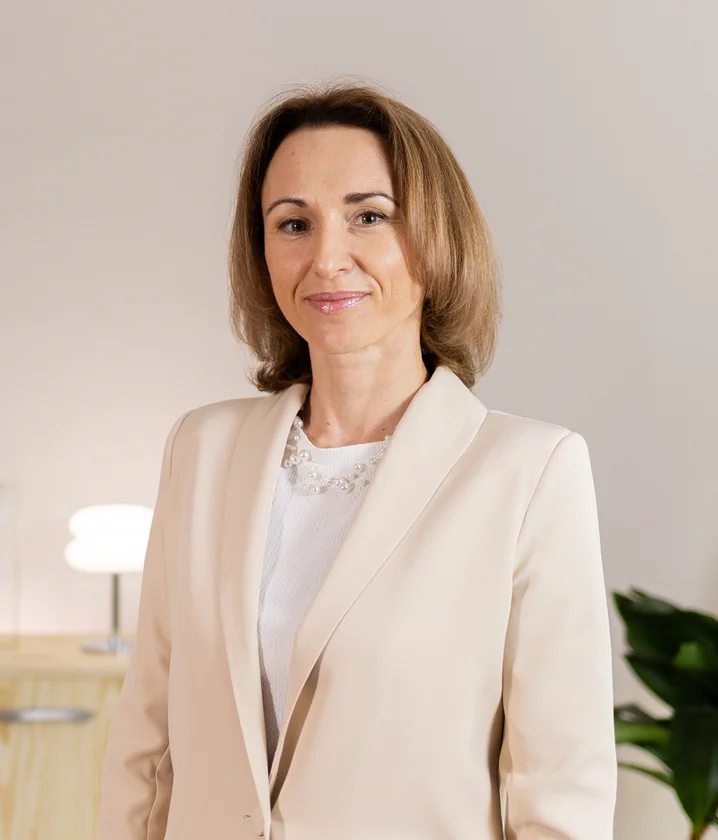
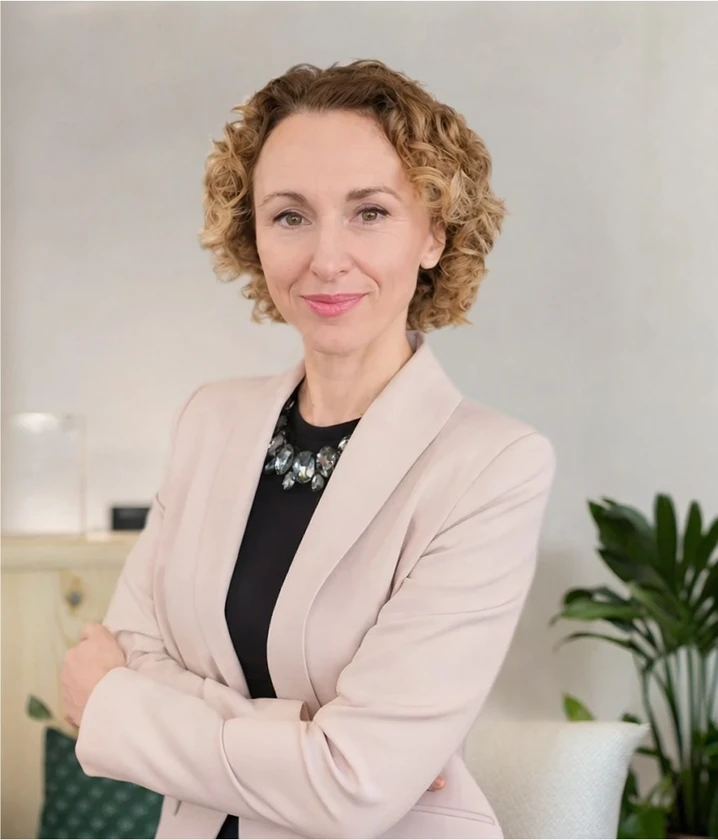
Оновлення сайту

diff --git a/min/data.js b/min/data.js
@@ -13,18 +13,18 @@ window.PHILAD_MIN_CATS=[
   {id:"team",label:"Команди церкви"}
 ];
 window.PHILAD_MIN=[
-  {id:"youth",page:"/project/philadyouth/",hero:"youth/hero.webp",name:"Молодіжне служіння",cat:"young",text:"Молодь 16–25 років: зустрічі, дружба, служіння і чесні розмови про віру та життя."},
+  {id:"youth",page:"/project/philadyouth/",lead:"Андрій Лещук",leadPhoto:"min/leaders/teens.webp",hero:"youth/hero.webp",name:"Молодіжне служіння",cat:"young",text:"Молодь 16–25 років: зустрічі, дружба, служіння і чесні розмови про віру та життя."},
   {id:"prayer",lead:"Анатолій Фещенко",leadRole:"Лідер служіння",leadNote:"Старший пастор",leadPhoto:"min/leaders/feshchenko-prayer.webp",name:"Молитовне служіння",cat:"pray",text:"Молимося за церкву, за людей, які просять про молитву, і за Україну. Долучитися може кожен."},
   {id:"wednesday",name:"Вечірнє служіння по середах",cat:"pray",lead:"Регіональний служитель",text:"Зібрання посеред тижня: Слово, молитва і спілкування, щоб не чекати неділі."},
   {id:"night",lead:"Андрій Лещук",leadRole:"Лідер служіння",leadPhoto:"min/leaders/teens.webp",name:"Нічні молитви",cat:"pray",text:"Нічні молитовні зустрічі молоді — час, коли без поспіху шукаємо Бога разом."},
-  {id:"vpb",name:"Вечір Пошуку Бога (ВПБ)",cat:"pray",lead:"Шашлов Андрій",leadPhoto:"min/leaders/vpb.webp",text:"Вечір поклоніння і молитви, на якому разом шукаємо Бога."},
+  {id:"vpb",name:"Вечір Пошуку Бога (ВПБ)",cat:"pray",lead:"Андрій Шашлов",leadPhoto:"min/leaders/vpb.webp",text:"Вечір поклоніння і молитви, на якому разом шукаємо Бога."},
   {id:"homegroups",name:"Домашні групи",cat:"family",lead:"Лідери домашніх груп у своїх районах",href:"/domashnie-gruppy/",text:"Невеликі групи по всьому Києву, де разом читають Біблію, моляться і підтримують одне одного."},
   {id:"worship",name:"Служіння прославлення",cat:"pray",lead:"Тимофій Ярошевич",leadRole:"Лідер прославлення",leadPhoto:"min/leaders/worship.webp",text:"Музиканти і вокалісти, які ведуть церкву в поклонінні на богослужіннях."},
   {id:"sunday-school",name:"Недільна школа",cat:"kids",lead:"Світлана Поліщук",leadRole:"Директорка недільної школи",leadPhoto:"min/leaders/sunday-school.webp",text:"Поки дорослі на богослужінні, діти вивчають Біблію, граються і дружать у групах за віком."},
   {id:"kids-choir",name:"Дитячий хор",cat:"kids",text:"Діти вчаться співати разом і служать піснями на богослужіннях і святах."},
   {id:"choir",name:"Дорослий хор",cat:"pray",text:"Хор церкви славить Бога піснями на богослужіннях і святкових зібраннях."},
   {id:"camps",lead:"Світлана Рибальченко",leadRole:"Лідерка служіння",leadPhoto:"min/leaders/rybalchenko.webp",name:"Дитячі табори",cat:"kids",text:"Літні табори для дітей церкви та їхніх друзів: природа, ігри, наставники і біблійні уроки."},
-  {id:"teens",name:"Служіння підліткам",cat:"young",lead:"Лещук Андрій",leadRole:"Лідер підліткового",leadPhoto:"min/leaders/teens.webp",text:"Зустрічі для підлітків: ігри, розмови на важливі теми, молитва і друзі."},
+  {id:"teens",name:"Служіння підліткам",cat:"young",lead:"Андрій Лещук",leadRole:"Лідер підліткового",leadPhoto:"min/leaders/teens.webp",text:"Зустрічі для підлітків: ігри, розмови на важливі теми, молитва і друзі."},
   {id:"happiness",name:"Щастя поруч",cat:"young",lead:"Юрій Кавун",leadRole:"Лідер служіння",leadNote:"Пастор церкви",leadPhoto:"min/leaders/kavun.webp",text:"Молодіжний рух, де вчаться будувати стосунки так, як їх задумав Бог, і знайомляться в християнській атмосфері."},
   {id:"chaplain",lead:"Володимир Губський",leadRole:"Капелан",leadPhoto:"min/leaders/chaplain.webp",name:"Капеланство",cat:"help",text:"Капелани підтримують військових, поранених і їхніх рідних словом, молитвою і присутністю."},
   {id:"mil-families",lead:"Тетяна Василенко",leadRole:"Лідерка служіння",leadPhoto:"min/leaders/mil-families.webp",name:"Служіння сім’ям військових",cat:"help",text:"Підтримуємо дружин, дітей і батьків тих, хто служить: розмова, молитва і практична допомога."},
@@ -39,9 +39,9 @@ window.PHILAD_MIN=[
   {id:"light-bread",name:"Світло і Хліб",cat:"evang",lead:"Борис Корбан",leadPhoto:"min/leaders/light-bread.webp",text:"Служіння просто неба: тепло, хліб і добре слово для людей, які проходять повз наш намет."},
   {id:"premarital",lead:"Юрій Кавун",leadRole:"Лідер служіння",leadNote:"Пастор церкви",leadPhoto:"min/leaders/kavun.webp",name:"Консультування пар до одруження",cat:"family",text:"Зустрічі з досвідченими подружжями для пар, які готуються до весілля."},
   {id:"family-nights",lead:"Ефе Прінц",leadRole:"Лідер служіння",leadPhoto:"min/leaders/prinz.webp",name:"Сімейні вечори",cat:"family",text:"Вечори для подружжів: час одне для одного, розмови і спілкування з іншими сім’ями."},
-  {id:"young-families",lead:"Прінц Ефе",leadRole:"Лідер служіння",leadPhoto:"min/leaders/young-families.webp",name:"Праця з молодими сім’ями",cat:"family",text:"Підтримка молодих подружжів і батьків: зустрічі, поради та друзі на тому ж етапі життя."},
+  {id:"young-families",lead:"Ефе Прінц",leadRole:"Лідер служіння",leadPhoto:"min/leaders/young-families.webp",name:"Праця з молодими сім’ями",cat:"family",text:"Підтримка молодих подружжів і батьків: зустрічі, поради та друзі на тому ж етапі життя."},
   {id:"plus37",lead:"Альона Рісто",leadRole:"Лідерка служіння",leadPhoto:"min/leaders/plus37.webp",name:"Служіння 37+",cat:"family",text:"Спільнота для тих, кому 37 і більше: дружба, підтримка і служіння разом."},
-  {id:"media",page:"/project/media-sluzhinnya/",name:"Медіа команда",cat:"team",text:"Трансляції, фото, відео і соцмережі: розповідаємо про життя церкви і несемо Євангеліє далі."},
+  {id:"media",page:"/project/media-sluzhinnya/",lead:"Костянтин Головій",leadPhoto:"media/leader.webp",name:"Медіа команда",cat:"team",text:"Трансляції, фото, відео і соцмережі: розповідаємо про життя церкви і несемо Євангеліє далі."},
   {id:"hospitality",lead:"Віктор Осташевський",leadRole:"Лідер служіння",leadPhoto:"min/leaders/ostashevskyi-hospitality.webp",name:"Група гостинності",cat:"team",text:"Зустрічаємо людей на вході, пригощаємо кавою і допомагаємо новим гостям почуватися вдома."},
   {id:"order",lead:"Віктор Осташевський",leadRole:"Лідер служіння",leadPhoto:"min/leaders/ostashevskyi.webp",name:"Група порядку",cat:"team",text:"Дбаємо, щоб на богослужіннях було зручно і спокійно: зустрічаємо, підказуємо, допомагаємо знайти місце."},
   {id:"special-kids",lead:"Юлія Николайчук",leadRole:"Лідерка служіння",leadPhoto:"min/leaders/nykolaichuk.webp",name:"Служіння дітям з інвалідністю",cat:"help",text:"Зустрічі, турбота і підтримка для дітей з інвалідністю та їхніх батьків."},

diff --git a/project/philadyouth/index.html b/project/philadyouth/index.html
@@ -252,7 +252,7 @@ button,input,textarea{font:inherit;color:inherit}
 
   <section class="y-lead rv" aria-label="Лідер служіння">
     <img src="min/leaders/teens.webp" alt="Андрій Лещук" width="150" height="150" loading="lazy">
-    <div><span class="y-txt">Лідер служіння</span><b>Лещук Андрій</b></div>
+    <div><span class="y-txt">Лідер служіння</span><b>Андрій Лещук</b></div>
   </section>
 
   <section class="y-about" aria-labelledby="y-about">
